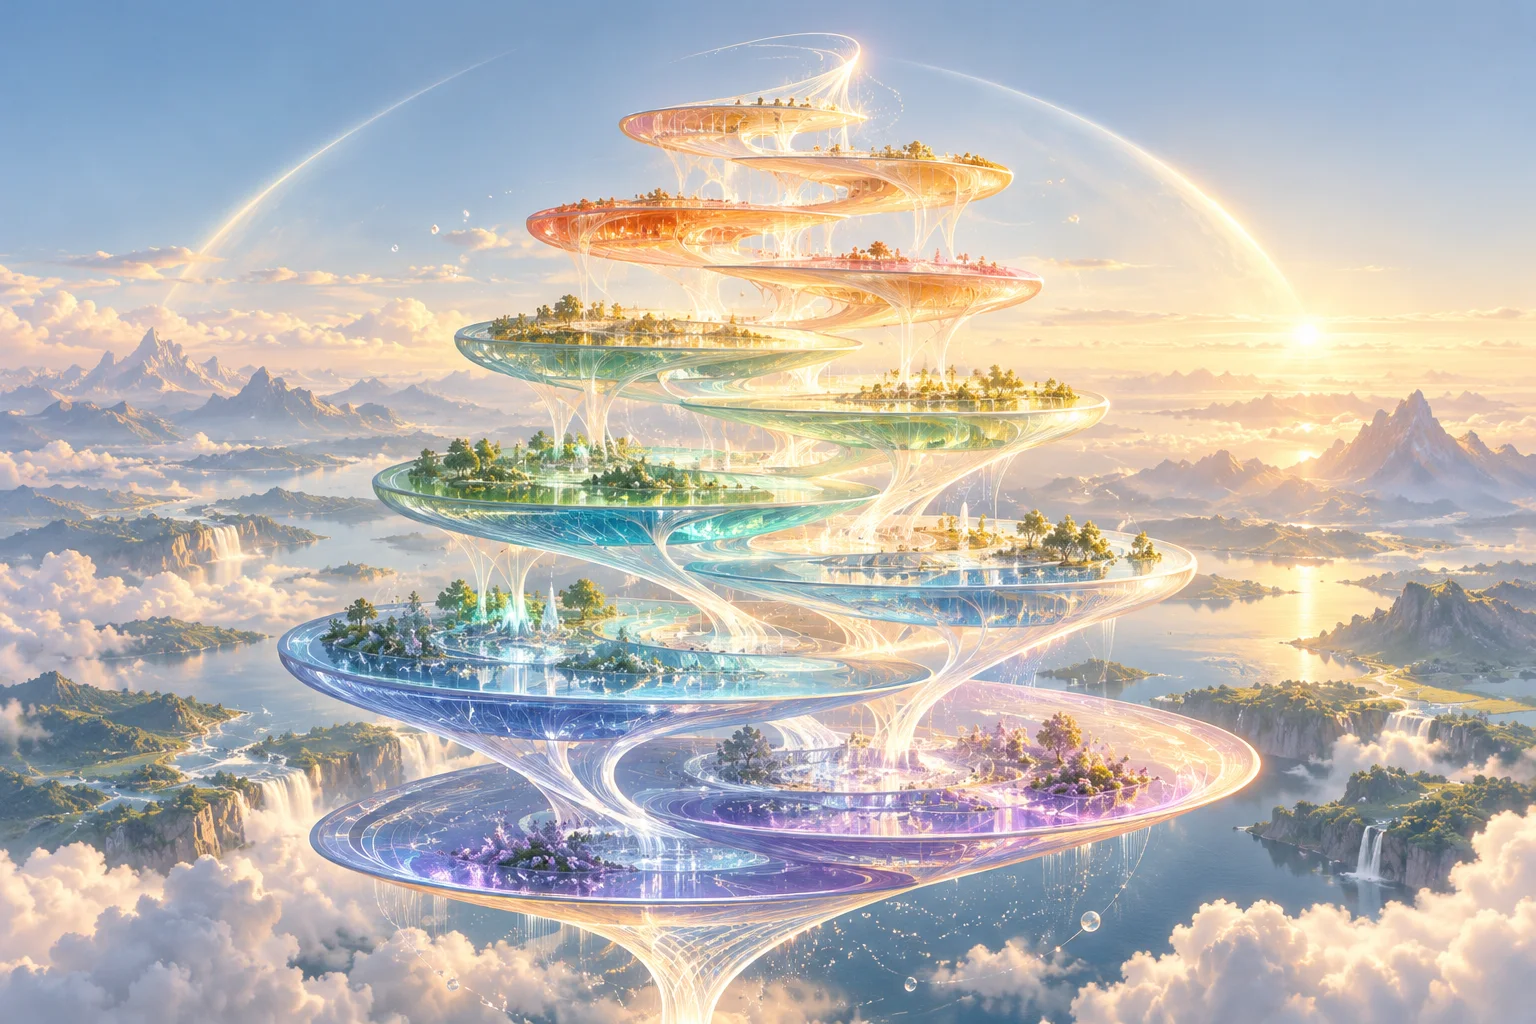
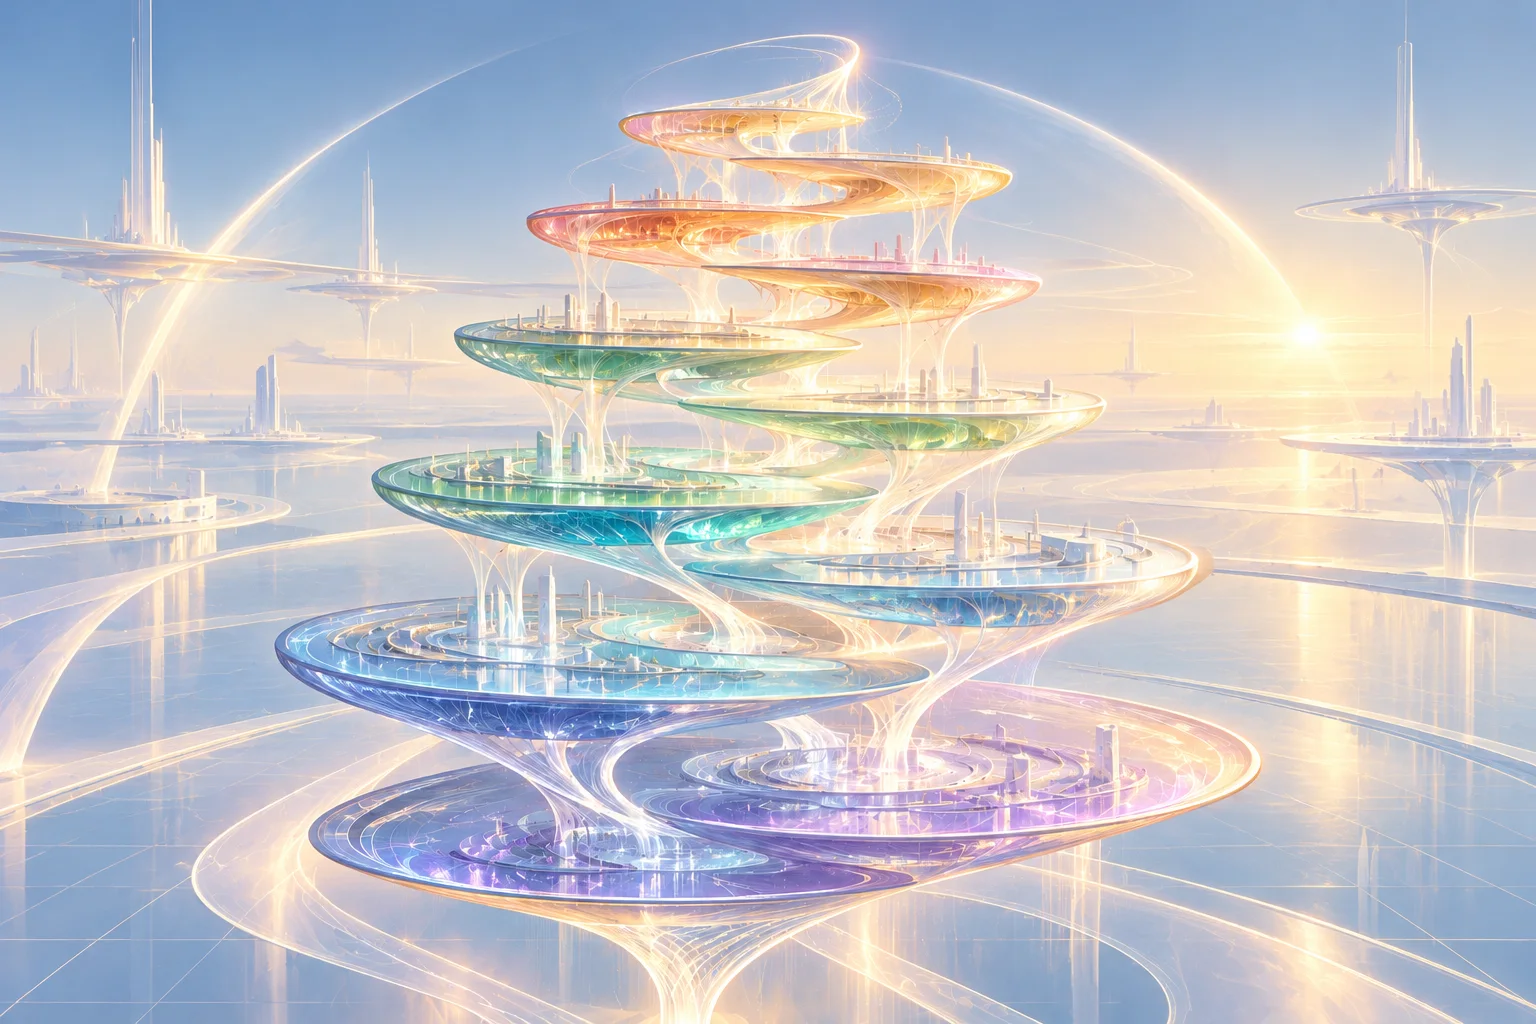
Reduce natural scenery in the sci-fi substance cover

diff --git a/artifacts/psychoactive-substances/cover.prompt.md b/artifacts/psychoactive-substances/cover.prompt.md
@@ -1,18 +1,17 @@
 # Card cover provenance
 
-Generated with the built-in `image_gen` tool. An abstract, optimistic science-fiction
-illustration for the psychoactive-substances thought experiment. Published as
-`cover.webp` (1536 × 1024, WebP quality 84, metadata removed).
+Edited with the built-in `image_gen` tool from the initial cover in commit
+`0a07227`, following the request to reduce natural elements. The current
+illustration emphasizes synthetic geometry, minimal architecture and light.
+Published as `cover.webp` (1536 × 1024, WebP quality 84, metadata removed).
 
-## Final generation prompt
+## Current edit prompt
 
 ```text
-Use case: stylized-concept.
-Asset type: a landscape 3:2 cover illustration for a thoughtful interactive essay on a personal website.
-Primary request: an abstract, science-fiction, idealistic visual for '一个新国家的精神活性物质分级草案'. Convey a hopeful future civilization designing a humane, rational order that balances freedom, consciousness and care. No literal drug imagery.
-Scene and subject: a monumental but delicate ascending spiral of exactly eight broad translucent architectural terraces, hovering freely above an immense luminous horizon. The eight glass-like planes are open and permeable, connected by fine flowing ribbons of light rather than walls. Prismatic particles and softly refracted light suggest different states of perception and a coherent spectrum of possibilities. A distant radiant atmospheric halo suggests an optimistic new beginning. Everything feels weightless, spacious and contemplative.
-Style and medium: sophisticated abstract futuristic architectural concept art, sculptural three-dimensional spatial composition, luminous opalescent glass, subtle iridescence, precise elegant geometry and extraordinary material detail. Dreamlike and visionary but restrained, intelligent and mature. A beautiful museum-quality science-fiction art print, no generic technology dashboard aesthetic.
-Palette and mood: pearly ivory, pale mint, soft cyan and dawn gold, with restrained transitions through peach, coral and violet across the eight terraces. High-key diffuse dawn light, calm optimism, idealism, generosity, freedom and clarity. Avoid darkness and dystopia.
-Composition: horizontal 3:2. Strong central sculptural focal point, generous breathing room, important forms safe for centered website-card crops on desktop and mobile. The silhouette must remain compelling at small thumbnail size. The whole image should feel like a single coherent imagined place, not a collage of unrelated symbols.
-Constraints: no title, no words, no labels, no numbers, no logo or watermark. No pills, bottles, syringes, plants, brain icons, national flags or identifiable people. No cages, fences, weapons, cyberpunk neon, or oppressive monumental mood. Opaque background.
+Edit target: the supplied cover image for the psychoactive-substances thought experiment.
+Use case: precise-object-edit.
+Requested change: greatly reduce the natural elements and make the setting more abstract and engineered, while retaining the bright, idealistic science-fiction feeling.
+Keep: the central ascending spiral of transparent floating terraces; the elegant flowing light connections; the pearlescent translucent material, delicate spectrum of mint, cyan, gold, peach and violet; the wide 3:2 composition; the optimistic, spacious, contemplative mood. Keep a strong central focal point that crops well into a landscape website card.
+Change: replace the surrounding mountains, oceans, waterfalls, cloud banks and forests with a clean, luminous synthetic spatial environment: a pale ivory and soft blue atmospheric gradient, subtle geometric planes, a faint precise coordinate grid and a few restrained floating architectural forms. Remove trees and gardens from the terraces; replace them with sparse minimalist white architectural volumes, smooth surfaces and refined light channels. Nature should be almost absent. Make this feel like an abstract utopian civilization designed from pure geometry, transparent material and light, rather than a fantasy landscape.
+Avoid: vegetation, mountains, lakes, waterfalls, dense clouds, starscapes, cyberpunk neon, dystopian darkness, oppressive walls, cages, weapons, literal drug imagery, people, text, numbers, labels, logos and watermarks. Do not add unrelated symbols or replace the main floating structure.
 ```
